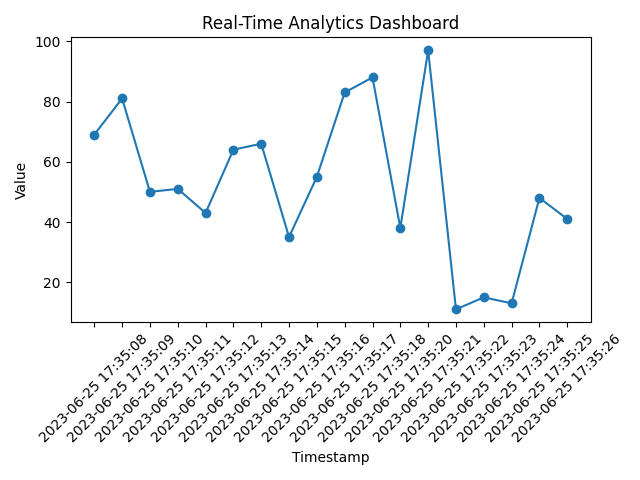
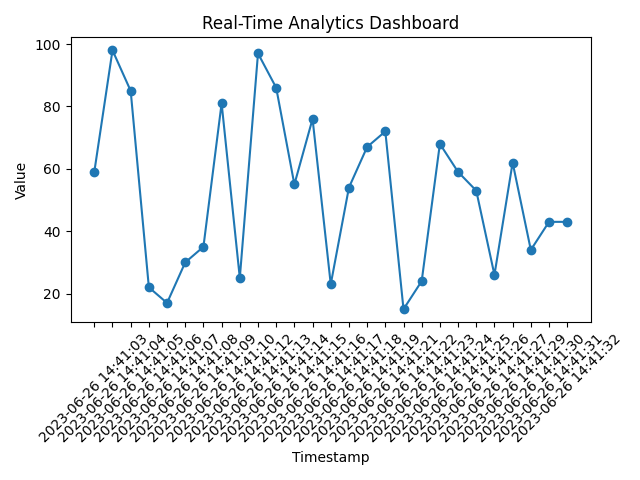
SQL Update

diff --git a/Working_Version/SQLite.py b/Working_Version/SQLite.py
@@ -67,10 +67,10 @@ def SQL_In_Memory():
         print("\nQuestion 4: Sort the 'Leaderboard' table in descending order based on the 'Score' column.")
         print(sorted_leaderboard)
 
-        # Question 5: Retrieve the top 2 records from the "Leaderboard" table.
-        cursor.execute("SELECT * FROM Leaderboard LIMIT 2")
+        # Question 5: Retrieve the top 3 records from the "Leaderboard" table.
+        cursor.execute("SELECT * FROM Leaderboard LIMIT 3")
         top_players = cursor.fetchall()
-        print("\nQuestion 5: Retrieve the top 2 records from the 'Leaderboard' table.")
+        print("\nQuestion 5: Retrieve the top 3 records from the 'Leaderboard' table.")
         print(top_players)
 
         # Question 6: Perform a UNION of two SELECT statements to combine the records from two tables.

diff --git a/Working_Version/RealTime.py b/Working_Version/RealTime.py
@@ -3,9 +3,15 @@ import sqlite3
 import random
 import time
 import matplotlib.pyplot as plt
+import pandas as pd
 
 # Create an in-memory database
-conn = sqlite3.connect(":memory:")
+
+Mem_DB = ':memory:'
+File_DB = 'image.db'
+
+
+conn = sqlite3.connect(Mem_DB)
 cursor = conn.cursor()
 
 # Create the table to store real-time data
@@ -44,3 +50,11 @@ while True:
     plt.close()
 
     time.sleep(1)  # Pause for 1 second before updating the plot
+
+    # Fetch all records from Leaderboard Table
+    cursor.execute('SELECT * FROM Analytics')
+    rows = cursor.fetchall()
+
+    # Print All Data In Table Visually
+    df = pd.DataFrame(rows, columns=["Visitors", "Sales", "Clicks"])
+    print("\nAll Data: Leaderboard\n{}\n".format(df))
